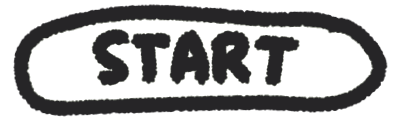
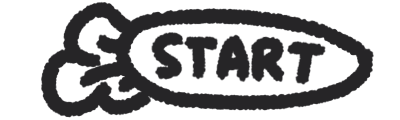
ORG05

diff --git a/src/pages/Export.tsx b/src/pages/Export.tsx
@@ -1,38 +1,38 @@
 import { useState, useRef, useEffect } from 'react';
 import { useNavigate } from 'react-router-dom';
 import { useAppStore } from '../store';
-import { motion } from 'motion/react';
-import { Download, Share2, ArrowLeft, RefreshCw, Image as ImageIcon, Video } from 'lucide-react';
 import { toPng } from 'html-to-image';
 import gifshot from 'gifshot';
 
 export default function Export() {
   const navigate = useNavigate();
   const { photos } = useAppStore();
-  
+
   const [isExporting, setIsExporting] = useState(false);
-  const [exportType, setExportType] = useState<'static' | 'dynamic'>('static');
+  // 新增了 'grid' 状态，代表 2x2 排版
+  const [exportType, setExportType] = useState<'strip' | 'grid' | 'gif'>('strip');
   const [previewUrl, setPreviewUrl] = useState<string | null>(null);
   const stripRef = useRef<HTMLDivElement>(null);
 
+  // 🌟 1. 彻底手绘化的“还没拍照”提示页
   if (photos.length === 0) {
     return (
-      <div className="h-screen flex items-center justify-center bg-zinc-50">
-        <div className="text-center">
-          <p className="mb-4 text-zinc-500">No photos found.</p>
-          <button onClick={() => navigate('/')} className="px-6 py-2 bg-orange-500 text-white rounded-full font-bold">
-            Go Back
-          </button>
-        </div>
+      <div className="h-screen flex flex-col items-center justify-center bg-[#fdfaf6]">
+        <img src="/src/assets/ui/text_nophoto.png" alt="Huh? No photos yet!" className="w-64 mb-8 object-contain opacity-80 drop-shadow-sm" />
+        <button onClick={() => navigate('/')} className="active:scale-95 transition-transform">
+          <img src="/src/assets/ui/btn_start.png" className="w-48 object-contain" alt="Take Photo" />
+        </button>
       </div>
     );
   }
 
+  // 生成静态图 (支持单列 strip 和 四宫格 grid)
   const generateStatic = async () => {
     if (!stripRef.current) return;
     setIsExporting(true);
     try {
-      const dataUrl = await toPng(stripRef.current, { cacheBust: true, pixelRatio: 2 });
+      // 截图时稍微降低一点分辨率以防手机浏览器崩溃，pixelRatio: 1.5 足够清晰了
+      const dataUrl = await toPng(stripRef.current, { cacheBust: true, pixelRatio: 1.5 });
       setPreviewUrl(dataUrl);
     } catch (err) {
       console.error('Failed to generate static image', err);
@@ -41,34 +41,44 @@ export default function Export() {
     }
   };
 
+  // 🌟 2. 带有贴纸的动态 GIF 生成
   const generateDynamic = async () => {
     setIsExporting(true);
-    
-    // We need to render each photo with stickers to a canvas first to get the frames
-    // For simplicity in this demo, we'll just use the raw images if we can't easily render stickers
-    // A robust solution would use html-to-image on each individual photo container first.
-    
-    // Let's try to generate a GIF from the raw photos for now
-    const images = photos.map(p => p.dataUrl);
-    
-    gifshot.createGIF({
-      images,
-      gifWidth: 400,
-      gifHeight: 533, // 3:4 aspect ratio
-      interval: 0.5, // seconds per frame
-      numFrames: images.length,
-    }, (obj: any) => {
-      if (!obj.error) {
-        setPreviewUrl(obj.image);
-      } else {
-        console.error('Failed to generate GIF', obj.error);
+    try {
+      // 核心魔法：我们不去拿原始照片，而是去隐藏的 DOM 里，把每一个带有贴纸的照片容器单独截图！
+      const frameNodes = document.querySelectorAll('.gif-frame-target');
+      const images: string[] = [];
+
+      for (let i = 0; i < frameNodes.length; i++) {
+        // 给每一帧（包含照片+贴纸）截取成独立的图片
+        const frameDataUrl = await toPng(frameNodes[i] as HTMLElement, { cacheBust: true, pixelRatio: 1.2 });
+        images.push(frameDataUrl);
       }
+
+      // 然后再把这些带有贴纸的图片喂给 gifshot
+      gifshot.createGIF({
+        images,
+        gifWidth: 400,
+        gifHeight: 533, // 3:4 aspect ratio
+        interval: 0.5, // 切换速度：0.5秒/张
+        numFrames: images.length,
+      }, (obj: any) => {
+        if (!obj.error) {
+          setPreviewUrl(obj.image);
+        } else {
+          console.error('Failed to generate GIF', obj.error);
+        }
+        setIsExporting(false);
+      });
+    } catch (err) {
+      console.error('Failed to prepare frames for GIF', err);
       setIsExporting(false);
-    });
+    }
   };
 
   useEffect(() => {
-    if (exportType === 'static') {
+    // 每次切换排版或模式，重新生成预览
+    if (exportType === 'strip' || exportType === 'grid') {
       generateStatic();
     } else {
       generateDynamic();
@@ -79,60 +89,80 @@ export default function Export() {
     if (!previewUrl) return;
     const a = document.createElement('a');
     a.href = previewUrl;
-    a.download = `bobucam-${exportType}-${Date.now()}.${exportType === 'static' ? 'png' : 'gif'}`;
+    // 文件名也会根据导出的状态自动改变
+    a.download = `bobucam-${exportType}-${Date.now()}.${exportType === 'gif' ? 'gif' : 'png'}`;
     a.click();
   };
 
+  const handleShare = async () => {
+    if (!previewUrl) return;
+    try {
+      const blob = await (await fetch(previewUrl)).blob();
+      const file = new File([blob], `bobucam.${exportType === 'gif' ? 'gif' : 'png'}`, { type: blob.type });
+      if (navigator.share) {
+        await navigator.share({ title: 'My BobuCam Moments', files: [file] });
+      } else {
+        alert("Your device does not currently support direct sharing. Please click to save to your album!");
+      }
+    } catch (error) {
+      console.error("Share failed", error);
+    }
+  };
+
   return (
-    <div className="h-screen bg-zinc-50 flex flex-col">
-      {/* Header */}
-      <div className="flex items-center justify-between p-4 bg-white shadow-sm z-10">
-        <button 
-          onClick={() => navigate('/editor')}
-          className="text-zinc-500 font-medium flex items-center gap-1"
-        >
-          <ArrowLeft className="w-4 h-4" /> Back
+    <div className="h-screen bg-[#fdfaf6] flex flex-col select-none">
+
+      {/* 顶部导航栏 */}
+      <div className="relative h-20 flex items-center justify-between px-4 shrink-0 bg-white shadow-sm z-10">
+        <button onClick={() => navigate('/editor')} className="relative z-10 w-12 h-12 active:scale-90 transition-transform">
+          <img src="/src/assets/ui/btn_back.png" alt="Back" className="w-full h-full object-contain" />
         </button>
-        <div className="font-bold text-zinc-900">Export</div>
-        <button 
-          onClick={() => navigate('/')}
-          className="text-orange-500 font-bold"
-        >
-          Done
+        <div className="relative z-10 h-10 pointer-events-none">
+          <img src="/src/assets/ui/title_export.png" alt="Export" className="h-full object-contain" />
+        </div>
+        <button onClick={() => navigate('/')} className="relative z-10 w-12 h-12 active:scale-90 transition-transform">
+          <img src="/src/assets/ui/btn_home.png" alt="Home" className="w-full h-full object-contain" />
         </button>
       </div>
 
-      {/* Main Preview Area */}
-      <div className="flex-1 overflow-y-auto p-6 flex flex-col items-center bg-zinc-100">
-        
-        {/* Toggle Export Type */}
-        <div className="flex bg-white rounded-full p-1 shadow-sm mb-6">
+      {/* 主预览区 */}
+      <div className="flex-1 overflow-y-auto p-4 sm:p-6 flex flex-col items-center">
+
+        {/* 🌟 3. 新增三Tab切换：单列长图 / 2x2四宫格 / 动态GIF */}
+        <div className="flex gap-2 sm:gap-4 mb-6">
           <button
-            onClick={() => setExportType('static')}
-            className={`flex items-center gap-2 px-6 py-2 rounded-full text-sm font-bold transition-colors ${
-              exportType === 'static' ? 'bg-orange-500 text-white' : 'text-zinc-500 hover:bg-zinc-50'
-            }`}
+            onClick={() => setExportType('strip')}
+            className={`w-24 sm:w-28 h-10 transition-all active:scale-95 ${exportType === 'strip' ? 'opacity-100 scale-105 drop-shadow-md' : 'opacity-40 grayscale-[50%]'}`}
           >
-            <ImageIcon className="w-4 h-4" /> Strip
+            <img src="/src/assets/ui/tab_strip.png" alt="Strip" className="w-full h-full object-contain" />
           </button>
+
           <button
-            onClick={() => setExportType('dynamic')}
-            className={`flex items-center gap-2 px-6 py-2 rounded-full text-sm font-bold transition-colors ${
-              exportType === 'dynamic' ? 'bg-orange-500 text-white' : 'text-zinc-500 hover:bg-zinc-50'
-            }`}
+            onClick={() => setExportType('grid')}
+            className={`w-24 sm:w-28 h-10 transition-all active:scale-95 ${exportType === 'grid' ? 'opacity-100 scale-105 drop-shadow-md' : 'opacity-40 grayscale-[50%]'}`}
           >
-            <Video className="w-4 h-4" /> GIF
+            <img src="/src/assets/ui/tab_grid.png" alt="Grid" className="w-full h-full object-contain" />
+          </button>
+
+          <button
+            onClick={() => setExportType('gif')}
+            className={`w-24 sm:w-28 h-10 transition-all active:scale-95 ${exportType === 'gif' ? 'opacity-100 scale-105 drop-shadow-md' : 'opacity-40 grayscale-[50%]'}`}
+          >
+            <img src="/src/assets/ui/tab_gif.png" alt="GIF" className="w-full h-full object-contain" />
           </button>
         </div>
 
-        {/* Preview Container */}
-        <div className="w-full max-w-xs relative bg-white p-4 pb-12 rounded-sm shadow-xl border border-zinc-200">
-          {isExporting ? (
+        {/* 预览展示容器 */}
+        <div className="w-full max-w-[320px] relative bg-white p-3 pb-10 rounded-sm shadow-xl border border-zinc-200">
+
+          {/* 🌟 4. 全手绘加载动画 */}
+          {isExporting && (
             <div className="absolute inset-0 bg-white/80 backdrop-blur-sm flex flex-col items-center justify-center z-20">
-              <RefreshCw className="w-8 h-8 text-orange-500 animate-spin mb-4" />
-              <p className="text-zinc-500 font-medium animate-pulse">Processing magic...</p>
+              <img src="/src/assets/ui/icon_loading.png" alt="Loading" className="w-16 h-16 animate-bounce mb-2" />
+              {/* Piff~Puff~Paff~! 替换为手绘图 */}
+              <img src="/src/assets/ui/text_loading.png" alt="Piff Puff Paff" className="h-8 animate-pulse object-contain" />
             </div>
-          ) : null}
+          )}
 
           {previewUrl ? (
             <img src={previewUrl} alt="Preview" className="w-full h-auto rounded-sm shadow-inner" />
@@ -140,12 +170,34 @@ export default function Export() {
             <div className="w-full aspect-[3/4] bg-zinc-100 animate-pulse rounded-sm" />
           )}
 
-          {/* Hidden element for static rendering */}
-          <div className="absolute -left-[9999px] top-0">
-            <div ref={stripRef} className="w-[400px] bg-white p-4 pb-16 flex flex-col gap-4">
+          {/* ========================================== */}
+          {/* 背后默默工作、不给用户看的排版渲染层 */}
+          {/* ========================================== */}
+          <div className="absolute -left-[9999px] top-0 pointer-events-none">
+            {/* 核心排版逻辑：如果是 strip 就是竖排，如果是 grid 就是两列网格 */}
+            <div
+              ref={stripRef}
+              className={`relative p-8 pb-24 overflow-hidden ${exportType === 'grid'
+                ? 'grid grid-cols-2 gap-4 w-[800px]'  // 2x2 模式：容器变宽，分为2列
+                : 'flex flex-col gap-6 w-[400px]'     // 单列长图模式
+                }`}
+            >
+              <img
+                src="/src/assets/ui/strip_bg.png"
+                className="absolute inset-0 w-full h-full object-cover -z-10"
+                alt="Background"
+                onError={(e) => e.currentTarget.style.display = 'none'}
+              />
+              <div className="absolute inset-0 w-full h-full bg-[#f4ecd8] -z-20"></div>
+
               {photos.map((photo, i) => (
-                <div key={photo.id} className="relative w-full aspect-[3/4] bg-zinc-200 overflow-hidden">
-                  <img src={photo.dataUrl} className="w-full h-full object-cover" />
+                <div
+                  key={photo.id}
+                  // 添加 gif-frame-target 类名，专门给 GIF 抓取截图用
+                  className="gif-frame-target relative w-full aspect-[3/4] bg-white shadow-[0_4px_12px_rgba(0,0,0,0.1)] p-3 rounded-sm"
+                >
+                  <img src={photo.dataUrl} className="w-full h-full object-cover rounded-sm" />
+                  {/* 渲染贴纸 */}
                   {photo.stickers.map(sticker => (
                     <div
                       key={sticker.id}
@@ -163,28 +215,32 @@ export default function Export() {
                   ))}
                 </div>
               ))}
-              <div className="absolute bottom-4 right-4 text-zinc-400 font-black text-xl tracking-tighter opacity-50">
-                BobuCam
+
+              {/* 🌟 5. 替换底部水印文字为图片 */}
+              <div className="absolute bottom-6 right-8 opacity-60">
+                <img src="/src/assets/ui/watermark.png" alt="BobuCam" className="h-10 object-contain drop-shadow-sm" />
               </div>
             </div>
           </div>
         </div>
       </div>
 
-      {/* Action Buttons */}
-      <div className="bg-white p-6 border-t border-zinc-100 flex gap-4">
+      {/* 底部操作按钮 */}
+      <div className="bg-white p-6 pb-8 border-t border-zinc-100 flex gap-4 shrink-0 rounded-t-3xl shadow-[0_-10px_40px_rgba(0,0,0,0.05)]">
         <button
           onClick={handleDownload}
           disabled={isExporting || !previewUrl}
-          className="flex-1 bg-orange-500 text-white py-4 rounded-2xl font-bold text-lg flex items-center justify-center gap-2 shadow-lg shadow-orange-500/30 hover:bg-orange-600 transition-colors disabled:opacity-50"
+          className="flex-1 h-16 active:scale-95 transition-transform disabled:opacity-50 disabled:active:scale-100"
         >
-          <Download className="w-5 h-5" /> Save
+          <img src="/src/assets/ui/btn_save.png" alt="Save" className="w-full h-full object-contain drop-shadow-sm" />
         </button>
+
         <button
+          onClick={handleShare}
           disabled={isExporting || !previewUrl}
-          className="flex-1 bg-zinc-900 text-white py-4 rounded-2xl font-bold text-lg flex items-center justify-center gap-2 shadow-lg hover:bg-zinc-800 transition-colors disabled:opacity-50"
+          className="flex-1 h-16 active:scale-95 transition-transform disabled:opacity-50 disabled:active:scale-100"
         >
-          <Share2 className="w-5 h-5" /> Share
+          <img src="/src/assets/ui/btn_share.png" alt="Share" className="w-full h-full object-contain drop-shadow-sm" />
         </button>
       </div>
     </div>
